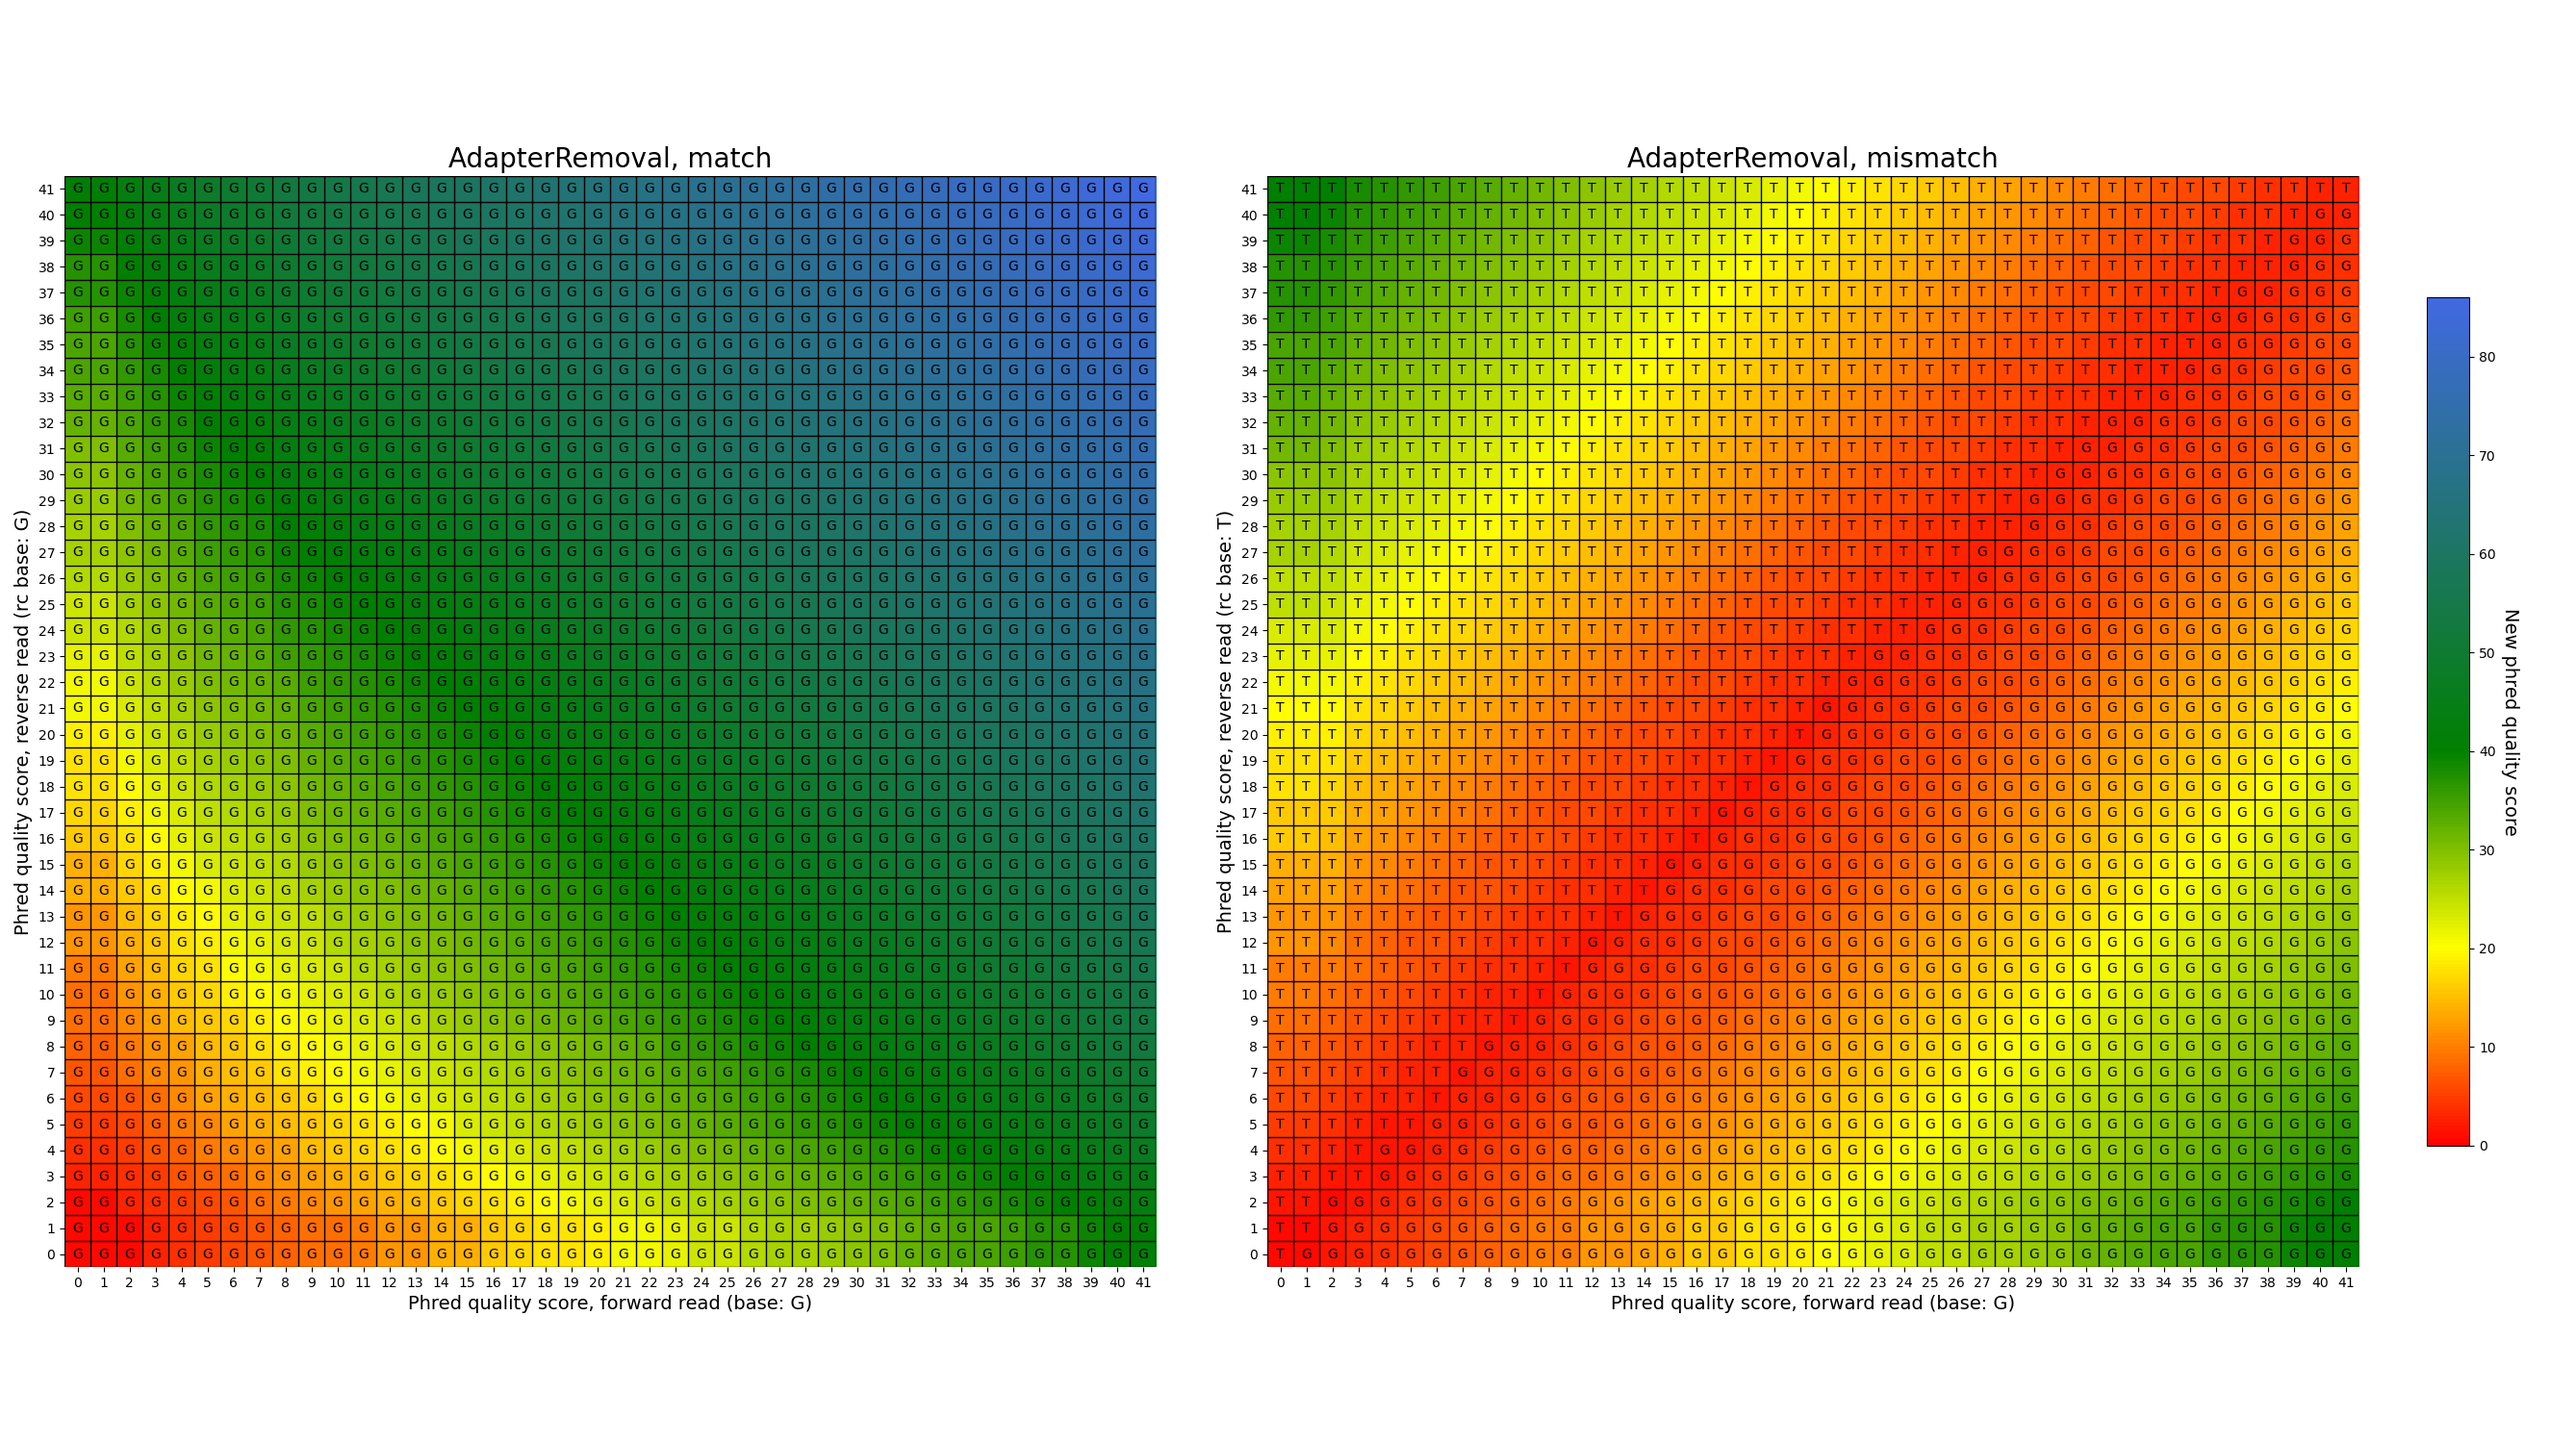
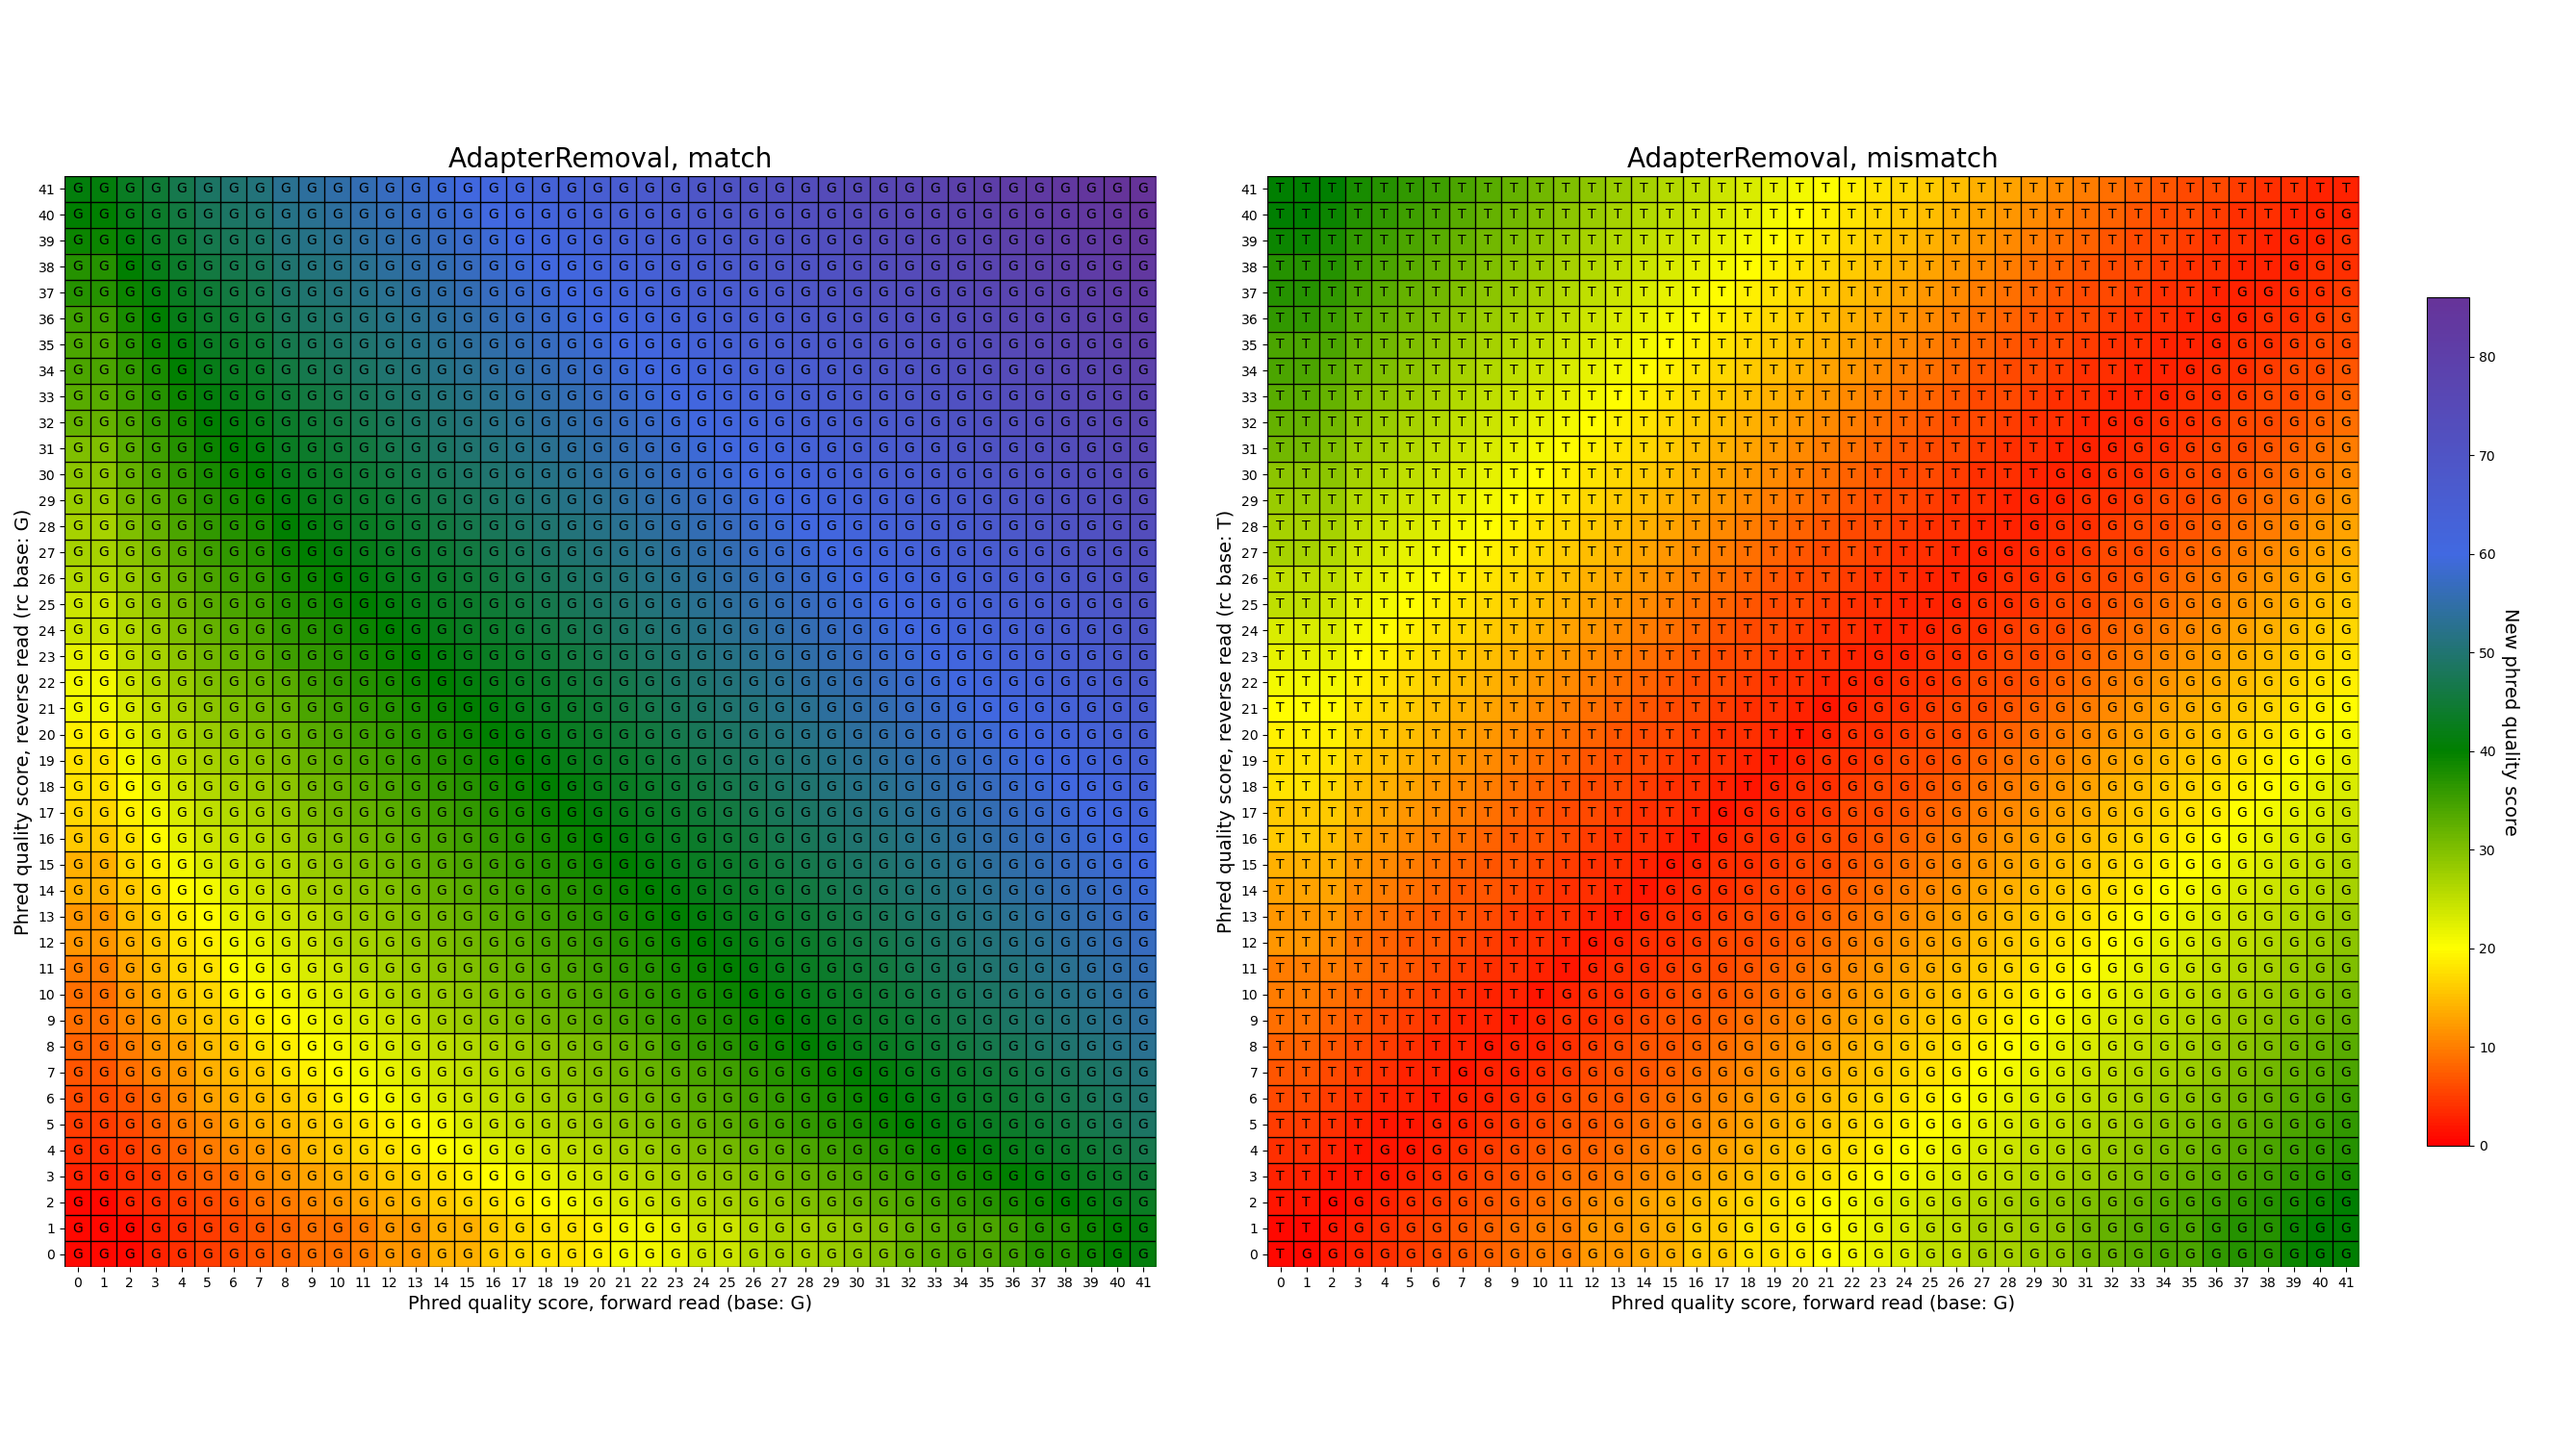
change the colors of the heatmap, add purple

Changed region(s): [[0.0309, 0.1227, 0.4642, 0.828], [0.9283, 0.2147, 0.9902, 0.4907]]

diff --git a/merge_phred/plot.py b/merge_phred/plot.py
@@ -161,8 +161,8 @@ def create_plots(df_type, program, match_type, max_new_qs, outdir):
                         .sort_index(ascending=False)
 
     # Create own colormap for heatmap
-    cvals  = [0, 20, 40, max_new_qs]
-    colors = ["red", "yellow", "green", "royalblue"]
+    cvals  = [0, 20, 40, 60, max_new_qs]
+    colors = ["red", "yellow", "green", "royalblue", "rebeccapurple"]
     norm = plt.Normalize(min(cvals),max(cvals))
     tuples = list(zip(map(norm,cvals), colors))
     cmap = mpl.colors.LinearSegmentedColormap.from_list("", tuples)
